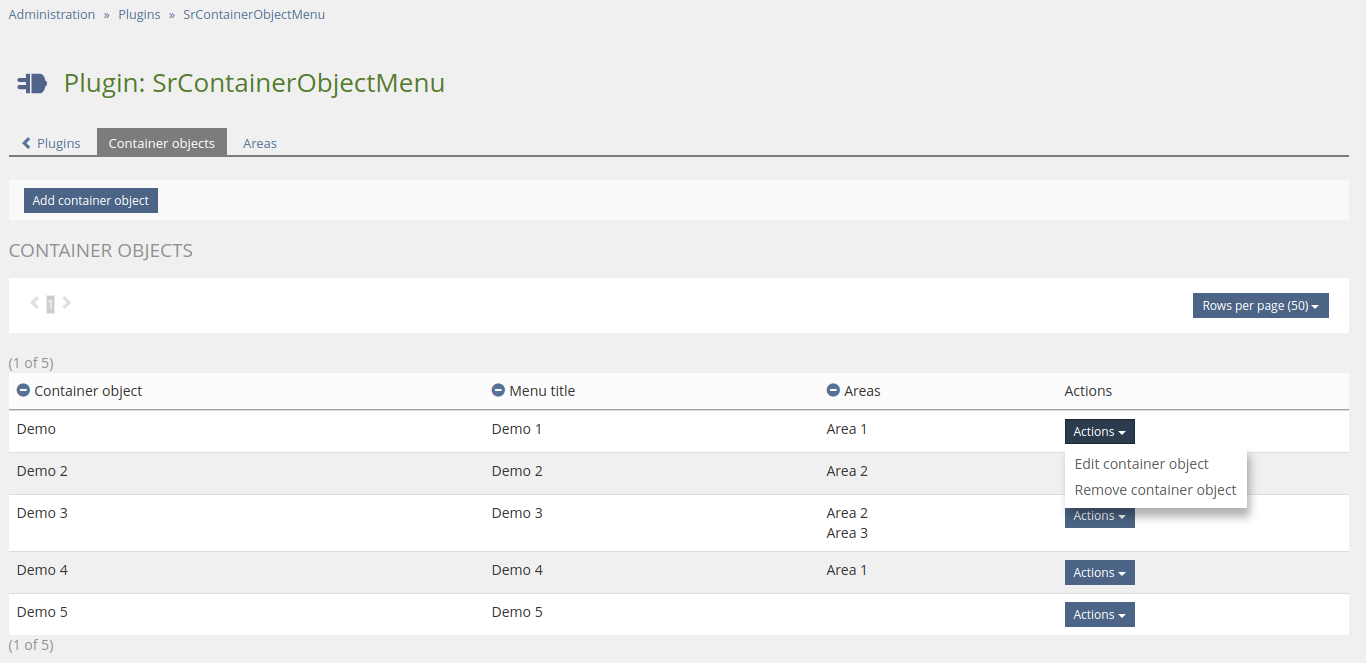
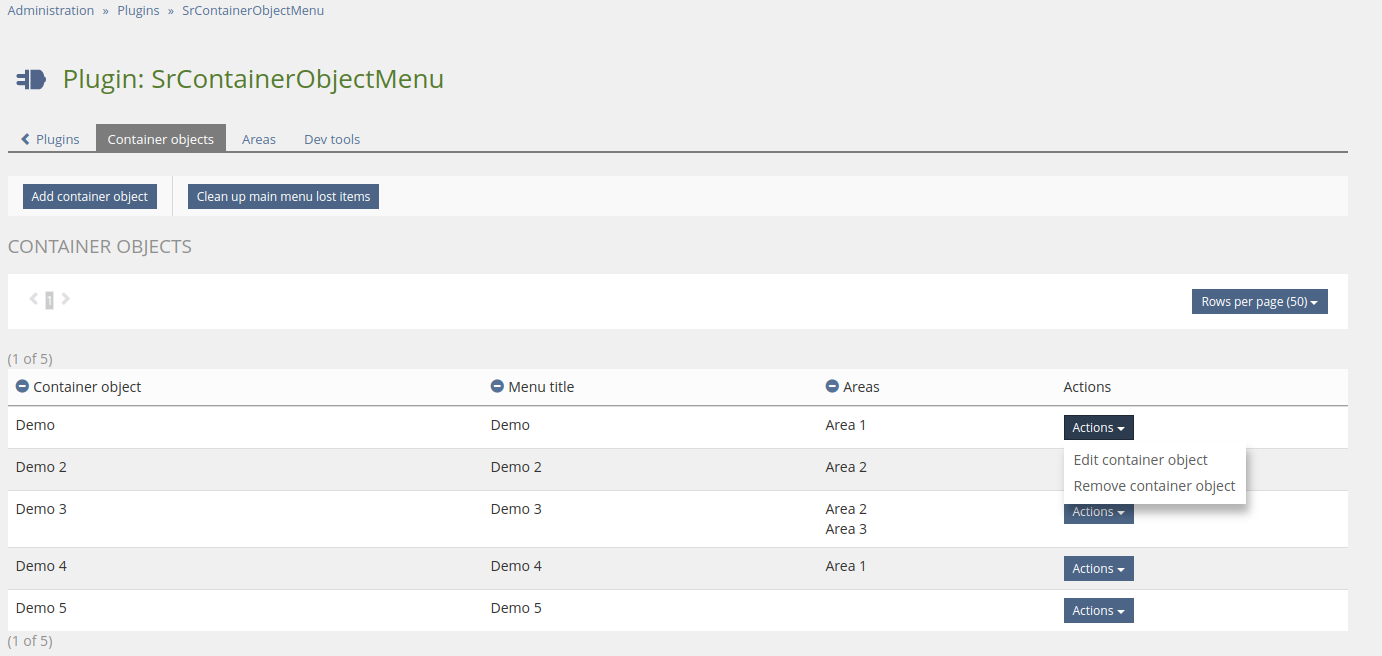
Select container objects from area

diff --git a/src/Area/Form/FormBuilder.php b/src/Area/Form/FormBuilder.php
@@ -6,11 +6,14 @@ use ilSrContainerObjectMenuPlugin;
 use ilTextInputGUI;
 use srag\CustomInputGUIs\SrContainerObjectMenu\FormBuilder\AbstractFormBuilder;
 use srag\CustomInputGUIs\SrContainerObjectMenu\InputGUIWrapperUIInputComponent\InputGUIWrapperUIInputComponent;
+use srag\CustomInputGUIs\SrContainerObjectMenu\MultiSelectSearchNewInputGUI\MultiSelectSearchNewInputGUI;
 use srag\CustomInputGUIs\SrContainerObjectMenu\TabsInputGUI\MultilangualTabsInputGUI;
 use srag\CustomInputGUIs\SrContainerObjectMenu\TabsInputGUI\TabsInputGUI;
 use srag\Plugins\SrContainerObjectMenu\Area\Area;
 use srag\Plugins\SrContainerObjectMenu\Area\AreaCtrl;
 use srag\Plugins\SrContainerObjectMenu\Area\AreasCtrl;
+use srag\Plugins\SrContainerObjectMenu\ContainerObject\ContainerObject;
+use srag\Plugins\SrContainerObjectMenu\ContainerObject\ContainerObjectsCtrl;
 use srag\Plugins\SrContainerObjectMenu\Utils\SrContainerObjectMenuTrait;
 
 /**
@@ -70,7 +73,8 @@ class FormBuilder extends AbstractFormBuilder
     protected function getData() : array
     {
         $data = [
-            "titles" => $this->area->getTitles()
+            "titles"            => $this->area->getTitles(),
+            "container_objects" => $this->area->getContainerObjectsIds()
         ];
 
         return $data;
@@ -88,6 +92,14 @@ class FormBuilder extends AbstractFormBuilder
         MultilangualTabsInputGUI::generateLegacy($fields["titles"]->getInput(), [
             new ilTextInputGUI(self::plugin()->translate("title", AreasCtrl::LANG_MODULE), "title")
         ], true);
+
+        $fields["container_objects"] = (new InputGUIWrapperUIInputComponent(new MultiSelectSearchNewInputGUI(self::plugin()->translate("container_objects", ContainerObjectsCtrl::LANG_MODULE))));
+        $fields["container_objects"]->getInput()->setOptions(array_reduce(self::srContainerObjectMenu()->containerObjects()->getContainerObjects(),
+            function (array $container_objects, ContainerObject $container_object) : array {
+                $container_objects[$container_object->getContainerObjectId()] = $container_object->getTitle();
+
+                return $container_objects;
+            }, []));
 
         return $fields;
     }
@@ -112,6 +124,7 @@ class FormBuilder extends AbstractFormBuilder
     protected function storeData(array $data)/* : void*/
     {
         $this->area->setTitles((array) ($data["titles"]));
+        $this->area->setContainerObjectsIds(MultiSelectSearchNewInputGUI::cleanValues((array) $data["container_objects"]));
 
         self::srContainerObjectMenu()->areas()->storeArea($this->area);
     }

diff --git a/src/Area/Area.php b/src/Area/Area.php
@@ -125,6 +125,17 @@ class Area extends ActiveRecord
 
 
     /**
+     * @return int[]
+     */
+    public function getContainerObjectsIds() : array
+    {
+        return array_map(function (ContainerObject $container_object) : int {
+            return $container_object->getContainerObjectId();
+        }, $this->getContainerObjects());
+    }
+
+
+    /**
      * @return string
      */
     public function getContainerObjectsTitle() : string
@@ -195,6 +206,41 @@ class Area extends ActiveRecord
     public function isVisible() : bool
     {
         return (!empty($this->getContainerObjects(true)));
+    }
+
+
+    /**
+     * @param int[] $container_object_ids
+     */
+    public function setContainerObjectsIds(array $container_object_ids)/* : void*/
+    {
+        $store_container_objects = [];
+
+        foreach ($container_object_ids as $container_object_id) {
+            $container_object = self::srContainerObjectMenu()->containerObjects()->getContainerObjectById($container_object_id);
+
+            if ($container_object->hasAreaId($this->area_id)) {
+                continue;
+            }
+
+            $container_object->addAreaId($this->area_id);
+
+            $store_container_objects[$container_object->getContainerObjectId()] = $container_object;
+        }
+
+        foreach ($this->getContainerObjects() as $container_object) {
+            if (in_array($container_object->getContainerObjectId(), $container_object_ids)) {
+                continue;
+            }
+
+            $container_object->removeAreaId($this->area_id);
+
+            $store_container_objects[$container_object->getContainerObjectId()] = $container_object;
+        }
+
+        foreach ($store_container_objects as $container_object) {
+            self::srContainerObjectMenu()->containerObjects()->storeContainerObject($container_object);
+        }
     }
 
 

diff --git a/src/ContainerObject/ContainerObject.php b/src/ContainerObject/ContainerObject.php
@@ -81,6 +81,19 @@ class ContainerObject extends ActiveRecord
 
 
     /**
+     * @param int $area_id
+     */
+    public function addAreaId(int $area_id)/* : void*/
+    {
+        if (!$this->hasAreaId($area_id)) {
+            $area_ids = $this->area_ids;
+            $area_ids[] = $area_id;
+            $this->setAreaIds(array_unique($area_ids));
+        }
+    }
+
+
+    /**
      * @return Component[]
      */
     public function getActions() : array
@@ -110,7 +123,7 @@ class ContainerObject extends ActiveRecord
      */
     public function setAreaIds(array $area_ids)/* : void*/
     {
-        $this->area_ids = array_map("intval", $area_ids);
+        $this->area_ids = array_map("intval", array_values($area_ids));
     }
 
 
@@ -272,6 +285,17 @@ class ContainerObject extends ActiveRecord
 
 
     /**
+     * @param int $area_id
+     *
+     * @return bool
+     */
+    public function hasAreaId(int $area_id) : bool
+    {
+        return in_array($area_id, $this->area_ids);
+    }
+
+
+    /**
      * @param int|null $obj_ref_id
      * @param bool     $check_visible
      *
@@ -283,6 +307,19 @@ class ContainerObject extends ActiveRecord
                 ->containerObjects()
                 ->isSelectedArea($this, self::srContainerObjectMenu()->selectedArea()->getSelectedArea(self::dic()->user()->getId())->getAreaId()) : true)
             && self::srContainerObjectMenu()->objects()->hasReadAccess(!empty($obj_ref_id) ? $obj_ref_id : $this->obj_ref_id));
+    }
+
+
+    /**
+     * @param int $area_id
+     */
+    public function removeAreaId(int $area_id)/* : void*/
+    {
+        if ($this->hasAreaId($area_id)) {
+            $this->setAreaIds(array_filter($this->area_ids, function (int $area_id_) use ($area_id) : bool {
+                return ($area_id_ !== $area_id);
+            }));
+        }
     }
 
 

diff --git a/src/Area/Repository.php b/src/Area/Repository.php
@@ -64,9 +64,7 @@ final class Repository
         $area->delete();
 
         foreach (self::srContainerObjectMenu()->containerObjects()->getContainerObjects($area->getAreaId()) as $container_object) {
-            $container_object->setAreaIds(array_values(array_filter($container_object->getAreaIds(), function (int $area_id) use ($area) : bool {
-                return ($area_id !== $area->getAreaId());
-            })));
+            $container_object->removeAreaId($area->getAreaId());
 
             self::srContainerObjectMenu()->containerObjects()->storeContainerObject($container_object);
         }

diff --git a/src/ContainerObject/class.ContainerObjectsCtrl.php b/src/ContainerObject/class.ContainerObjectsCtrl.php
@@ -86,7 +86,7 @@ class ContainerObjectsCtrl
     {
         $count = self::srContainerObjectMenu()->menu()->cleanUpLostItems();
 
-        ilUtil::sendInfo(self::plugin()->translate("cleaned_up_lost_items",self::LANG_MODULE,[
+        ilUtil::sendInfo(self::plugin()->translate("cleaned_up_lost_items", self::LANG_MODULE, [
             $count
         ]), true);
 

diff --git a/src/ContainerObject/Repository.php b/src/ContainerObject/Repository.php
@@ -161,7 +161,7 @@ final class Repository
             return $allow_no_areas;
         }
 
-        return in_array($area_id, $container_object->getAreaIds());
+        return $container_object->hasAreaId($area_id);
     }
 
 

diff --git a/CHANGELOG.md b/CHANGELOG.md
@@ -2,6 +2,7 @@
 
 ## [x]
 - Clean up lost menu entries
+- Select container objects from area
 
 ## [2.1.1]
 - Only show areas menu if at least 2 visible items
